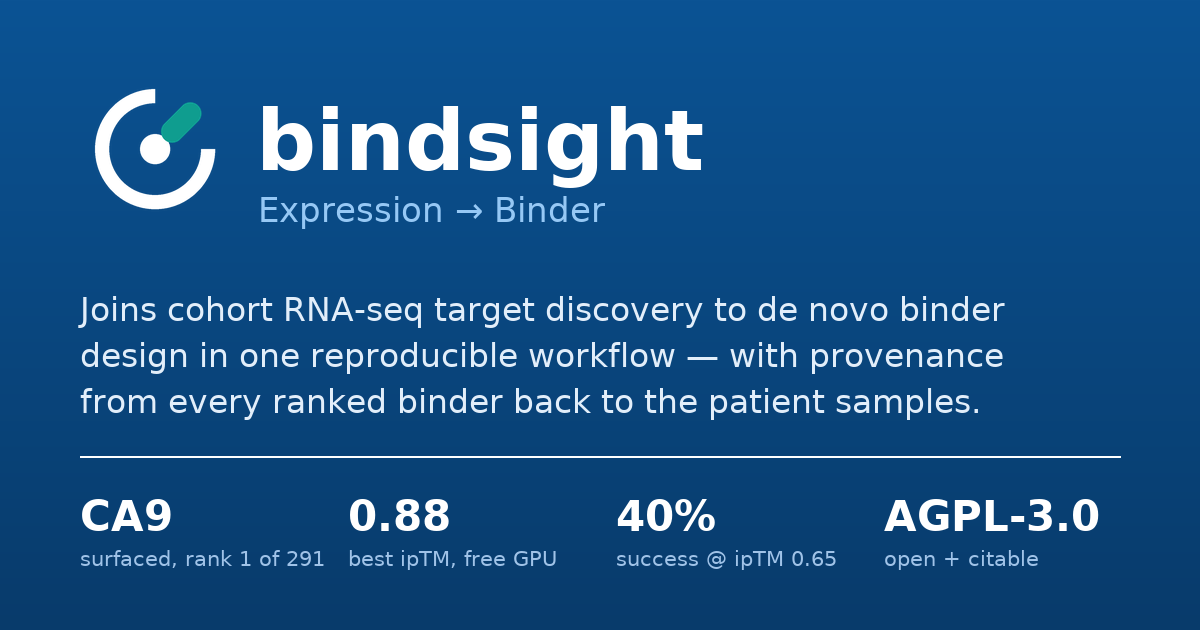
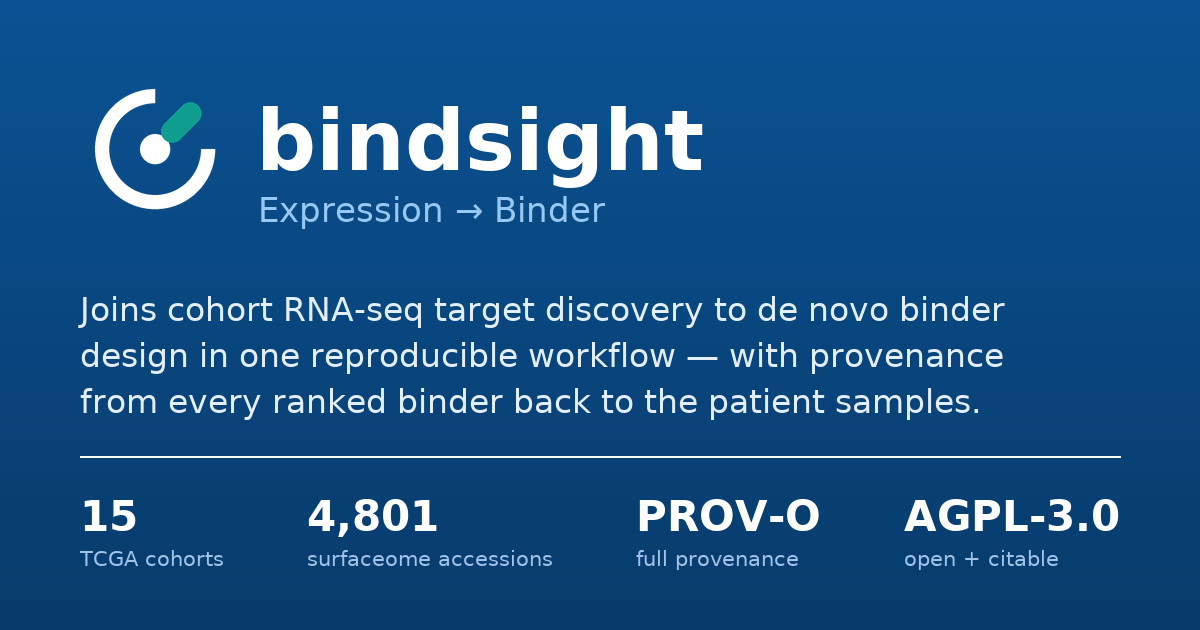
fix: remove the claims the project's own controls refuted
The scramble control withdrew `success@0.65` as a measure of design quality, but
four surfaces still told readers the opposite, and one of them could not carry a
caveat at all.

**The social card.** `docs/assets/og-image.png` is served as `og:image` on every
page of the documentation site, so it is what appears in every link preview
anywhere the project is shared. It carried "40% — success @ ipTM 0.65" as one of
four headline facts, and an image has nowhere to put the withdrawal. Its four
tiles now state the instrument's scope — 15 cohorts, 4,801 surfaceome
accessions, PROV-O, AGPL-3.0 — read from `benchmarks/study/results.json` rather
than typed, so a re-scored study cannot leave the card behind. The tiles are
also laid out from measured text widths: the old fixed 268 px pitch fitted the
one-word labels and silently overlapped as soon as a label said what its number
meant, so the renderer now refuses to emit a card whose columns would collide.

**The glossary** told readers Boltz-2 judges "whether a design would actually
bind" and that ipTM "0.65 and up is promising" — the two propositions the
control refuted. Both now say what the confidence is and what the paired control
found. **`docs/use-cases.md`** promised "Ranked binders with iPTM > 0.65" as the
pipeline's deliverable; it now promises ranked candidates carrying their
confidence, with the control stated beside it.

**Both manuscripts** opened by claiming "structurally-validated" binder
[…]

diff --git a/scripts/make_og_image.py b/scripts/make_og_image.py
@@ -54,6 +54,36 @@ def _background() -> Image.Image:
     return img
 
 
+def _facts() -> list[tuple[str, str]]:
+    """Four tiles describing the tool, read from the committed study.
+
+    This card is served as ``og:image`` on every page of the documentation site,
+    so it is what appears whenever anyone shares a link. It used to carry
+    "40% — success @ ipTM 0.65", which the project's own scramble control
+    withdrew as a measure of design quality; an image cannot carry the
+    withdrawal beside it, so the figure travelled alone wherever the link went.
+
+    Nothing here is a performance claim. Each value states the scope of the
+    instrument, and each is read from ``benchmarks/study/results.json`` rather
+    than typed, so a re-scored study cannot leave the card behind.
+    """
+    import json
+
+    root = Path(__file__).resolve().parents[1]
+    summary = json.loads(
+        (root / "benchmarks" / "study" / "results.json").read_text(encoding="utf-8")
+    )
+    cohorts = summary["specificity_null"]["n_cohorts"]
+    surfaceome = summary["surfaceome_size"]
+
+    return [
+        (f"{cohorts}", "TCGA cohorts"),
+        (f"{surfaceome:,}", "surfaceome accessions"),
+        ("PROV-O", "full provenance"),
+        ("AGPL-3.0", "open + citable"),
+    ]
+
+
 def _mark(size: int) -> Image.Image:
     """Render the bindsight mark: open antigen ring with a docked binder."""
     scale = 4
@@ -107,16 +137,29 @@ def main() -> int:
 
     draw.line([(80, 456), (W - 80, 456)], fill=(255, 255, 255, 60), width=2)
 
-    facts = [
-        ("CA9", "surfaced, rank 1 of 291"),
-        ("0.88", "best ipTM, free GPU"),
-        ("40%", "success @ ipTM 0.65"),
-        ("AGPL-3.0", "open + citable"),
+    facts = _facts()
+    # Lay the tiles out from their measured widths rather than on a fixed
+    # pitch. At 268 px the previous spacing fit the old one-word labels and
+    # silently overlapped as soon as a label described what the number meant.
+    value_font = _font(42, bold=True)
+    label_font = _font(21)
+    widths = [
+        max(draw.textlength(value, font=value_font), draw.textlength(label, font=label_font))
+        for value, label in facts
     ]
-    for i, (value, label) in enumerate(facts):
-        x = 80 + i * 268
-        draw.text((x, 492), value, font=_font(42, bold=True), fill=WHITE)
-        draw.text((x, 546), label, font=_font(21), fill=(160, 195, 232))
+    available = (W - 160) - sum(widths)
+    gap = available / (len(facts) - 1) if len(facts) > 1 else 0.0
+    if gap < 24:  # pragma: no cover - a guard against silently overlapping again
+        raise SystemExit(
+            f"tiles do not fit: they need {sum(widths):.0f} px of {W - 160} px, "
+            f"leaving {gap:.0f} px between columns. Shorten a label."
+        )
+
+    x = 80.0
+    for (value, label), width in zip(facts, widths, strict=True):
+        draw.text((x, 492), value, font=value_font, fill=WHITE)
+        draw.text((x, 546), label, font=label_font, fill=(160, 195, 232))
+        x += width + gap
 
     OUT.parent.mkdir(parents=True, exist_ok=True)
     img.save(OUT, "PNG", optimize=True)

diff --git a/tests/test_docs_claims.py b/tests/test_docs_claims.py
@@ -1503,3 +1503,48 @@ def test_the_prose_sweep_excludes_untracked_build_products() -> None:
     for path in PROSE_FILES:
         rel = path.relative_to(ROOT).as_posix()
         assert rel in tracked, f"{rel} is swept as public prose but git does not track it"
+
+
+def test_no_generated_image_bakes_in_a_withdrawn_figure() -> None:
+    """A figure rendered into a raster carries no caveat wherever it travels.
+
+    ``docs/assets/og-image.png`` is served as ``og:image`` on every page of the
+    documentation site, so it is what appears in every Slack unfurl, every
+    tweet, every link preview. It shipped "40% -- success @ ipTM 0.65" as one of
+    four headline facts while the scramble control had withdrawn that rate as a
+    measure of design quality, and no text could travel beside it to say so.
+
+    The prose guards cannot see this: they read Markdown. This one reads the
+    generator, which is where the strings actually live.
+    """
+    source = _read("scripts/make_og_image.py")
+
+    # The explanatory docstring is allowed to name what it removed; the tile
+    # data is not. Check the values the renderer actually draws.
+    tiles = re.search(r"def _facts\(\)(.*?)\n\ndef ", source, re.S)
+    assert tiles is not None, "make_og_image.py no longer defines _facts()"
+    body = tiles.group(1)
+    returned = body[body.index("return [") :] if "return [" in body else body
+
+    offenders = [m.group(0) for m in WITHDRAWN_BINDER_FIGURES.finditer(returned)]
+    assert not offenders, (
+        f"the social card renders withdrawn figures {offenders}; an image cannot "
+        "carry the withdrawal notice beside it"
+    )
+
+    for banned in ("success @", "success@", "ipTM 0.65", "iptm 0.65"):
+        assert banned not in returned, (
+            f"the social card renders {banned!r}, a metric this project withdrew "
+            "as a measure of design quality"
+        )
+
+
+def test_the_social_card_reads_its_numbers_from_the_artifacts() -> None:
+    """Typed numbers on a shared image are numbers that go stale invisibly."""
+    source = _read("scripts/make_og_image.py")
+    facts = source[source.index("def _facts()") :]
+
+    assert "results.json" in facts, (
+        "the social card should read its figures from the committed study rather "
+        "than carry literals that a re-scored run leaves behind"
+    )

diff --git a/paper/biorxiv/manuscript.tex b/paper/biorxiv/manuscript.tex
@@ -51,10 +51,17 @@ assumes the user has already chosen the target. Bridging the two —
 and here is a designed binder candidate ranked by predicted affinity''} —
 is currently an ad-hoc, project-specific exercise. We present
 \textbf{\texttt{bindsight}}, an open-source command-line tool and web
-application that ingests RNA-seq counts and outputs ranked, structurally-
-validated \textit{de novo} protein-binder candidates with a complete
+application that ingests RNA-seq counts and outputs ranked,
+structure-scored \textit{de novo} protein-binder candidates with a complete
 PROV-O~/~RO-Crate audit trail back to the patient cohort the targets came
-from. Existing open binder-design workflows begin at a chosen target, and
+from. We write \emph{structure-scored} rather than \emph{validated}
+advisedly: a paired control distributed with the tool folds each design beside
+a shuffle of its own sequence, and on the committed ERBB2 run the shuffles
+cleared the customary ipTM 0.65 threshold more often than the designs
+(50\% against 30\%; paired difference $-0.043$, 95\% CI $-0.142$ to
+$+0.054$). The interface confidences are a triage order for wet-lab work, not
+evidence of binding; the contribution claimed here is the reproducible bridge
+and its provenance. Existing open binder-design workflows begin at a chosen target, and
 existing expression- or surfaceome-based target-discovery workflows end at a
 ranked gene list; to our knowledge \texttt{bindsight} is the first open-source
 tool to run both halves end-to-end and to carry machine-readable provenance

diff --git a/bindsight/report/theme.py b/bindsight/report/theme.py
@@ -131,13 +131,20 @@ GLOSSARY: tuple[tuple[str, str], ...] = (
     (
         "Boltz-2",
         "An AI model that predicts the 3-D structure of the binder and target locked "
-        "together, so bindsight can judge whether a design would actually bind before "
-        "anyone runs a wet-lab experiment.",
+        "together, and reports how confident it is in that predicted interface. "
+        "Confidence is not a binding measurement: bindsight's own paired control "
+        "folded each design beside a shuffle of its own sequence, and the shuffles "
+        "scored as well. Treat these numbers as a filter to triage wet-lab work, "
+        "never as evidence that a design binds.",
     ),
     (
         "ipTM",
-        "A 0–1 score of how confident the structure model is that two proteins really "
-        "bind at their interface. Higher is better; roughly 0.65 and up is promising.",
+        "A 0–1 score of how confident the structure model is in the predicted "
+        "interface between two proteins. 0.65 is the threshold the de novo design "
+        "literature commonly uses, and bindsight reports against it for "
+        "comparability — but its own scramble control could not separate real "
+        "designs from shuffles of the same composition at that cutoff, so a value "
+        "above 0.65 is not on its own evidence of a binder. See the calibration.",
     ),
     (
         "PAE (interaction)",

diff --git a/docs/what-is-bindsight.md b/docs/what-is-bindsight.md
@@ -178,8 +178,37 @@ cohort's definition refers to the antigen being sought. Recall at rank 20 is 1 o
 simply not significantly over-expressed in an unstratified bulk contrast, which
 is a limit of the signal rather than of the ranking, and the study says so.
 Reproducible artifacts are in `benchmarks/study/`.
-benchmark is GPU-only; a runnable, CPU-tested harness + protocol ship in
-`benchmarks/designer_benchmark/`.
+
+The discovery half also carries two null models, and they point in opposite
+directions. Against decoys matched on abundance and dispersion, no antigen in
+the panel is distinguishable once the panel is corrected for its own size — a
+negative result, and the study reports it as one. But the ranking *is*
+indication-specific: known antigens sit at mean standing 0.765 in the cancer
+they are actually used in, against 0.417 in cancers that are not theirs, a
+within-antigen difference of **0.348** (95% CI 0.188–0.513) with an exact
+permutation p at the design's floor of 3.97e-04. That is the strongest claim
+this project makes, and it is about the ordering, not about any single hit.
+
+### Validation (the design half — and what it does not show)
+
+The design half runs end-to-end on a free GPU and produces real Boltz-2
+structures. What it does **not** establish is that those designs bind.
+
+A paired control folded each design beside a shuffle of its own sequence —
+same length, same amino-acid composition, only the order destroyed. Under a
+seeded validator averaging five diffusion draws, the shuffles cleared the 0.65
+confidence bar **more** often than the designs: 50% against 30%, a paired
+difference of −0.043 (95% CI −0.142 to +0.054), with 9 of 20 designs beating
+their own shuffle where 10 is chance. `success@0.65` is therefore withdrawn as a
+measure of design quality, and this page will not quote it as one. The full
+control, including the predictions written down before the data arrived, is in
+[`benchmarks/calibration/`](https://github.com/mikhaeelatefrizk/bindsight/blob/main/benchmarks/calibration/README.md).
+
+The three-way designer benchmark that would compare RFdiffusion+ProteinMPNN
+against BindCraft and BoltzGen is GPU-only and not yet run: both alternatives
+need 24–32 GB against anything larger than a small domain, and no shipped
+backend builds an environment where they run. A runnable, CPU-tested harness and
+protocol ship in `benchmarks/designer_benchmark/`.
 
 ### v1.0
 

diff --git a/benchmarks/calibration/README.md b/benchmarks/calibration/README.md
@@ -82,6 +82,30 @@ controls the same claim would take. How much larger depends on how correlated
 shuffles of one sequence turn out to be, which this run will show and nothing
 here should guess.
 
+## The result
+
+Stated before the chronology, because the sections below move through three
+readings in the order they were taken, and a reader who stops early would leave
+with a number this document supersedes.
+
+**Under the final protocol — seeded, five diffusion draws per fold, a pinned
+`boltz==2.0.3` the run recorded for itself — the shuffles clear the 0.65 bar
+more often than the designs do: 50% against 30%.** The paired difference is
+**-0.043** (95% CI -0.142 to +0.054), with 9 of 20 designs beating their own
+shuffle where 10 is chance, and an exact sign-flip p of 0.40.
+
+`success@0.65` is therefore withdrawn as a measure of design quality. The ipTM
+values are real Boltz-2 outputs; what does not follow from them is that the rate
+measures the designs.
+
+Two earlier readings appear below and neither is current: the first paired run
+("the same rate, 40% and 40%" — unseeded, a single diffusion draw), and the
+headline that preceded it (a protocol that redesigned the target chain as well
+as the binder). They are kept because how the answer moved, and what moved it,
+is itself the evidence: the first run's apparent tie was an artifact of reading
+one draw from a stochastic model whose per-draw noise is 0.139 — more than three
+times the effect being measured.
+
 ## What happened: the first row of the table
 
 The first outcome, the one that invalidates the metric. Full numbers in

diff --git a/docs/glossary.md b/docs/glossary.md
@@ -42,10 +42,10 @@ defined here.
 : Two AI models used together: RFdiffusion invents a plausible 3-D shape for a binder against the target, and ProteinMPNN chooses an amino-acid sequence that would fold into that shape.
 
 **Boltz-2**
-: An AI model that predicts the 3-D structure of the binder and target locked together, so bindsight can judge whether a design would actually bind before anyone runs a wet-lab experiment.
+: An AI model that predicts the 3-D structure of the binder and target locked together, and reports how confident it is in that predicted interface. Confidence is not a binding measurement: bindsight's own paired control folded each design beside a shuffle of its own sequence, and the shuffles scored as well. Treat these numbers as a filter to triage wet-lab work, never as evidence that a design binds.
 
 **ipTM**
-: A 0–1 score of how confident the structure model is that two proteins really bind at their interface. Higher is better; roughly 0.65 and up is promising.
+: A 0–1 score of how confident the structure model is in the predicted interface between two proteins. 0.65 is the threshold the de novo design literature commonly uses, and bindsight reports against it for comparability — but its own scramble control could not separate real designs from shuffles of the same composition at that cutoff, so a value above 0.65 is not on its own evidence of a binder. See the calibration.
 
 **PAE (interaction)**
 : Predicted Aligned Error at the binding interface, in ångströms — how uncertain the model is about the contact. Lower means a more trustworthy predicted grip.

diff --git a/paper/paper.md b/paper/paper.md
@@ -39,9 +39,19 @@ reproducible across labs.
 
 `bindsight` closes this gap. It is an open-source command-line tool
 and web application that takes RNA-seq counts as input and produces ranked,
-structurally-validated *de novo* protein-binder candidates as output, with a
+structure-scored *de novo* protein-binder candidates as output, with a
 complete `PROV-O` JSON-LD [@PROVO] / RO-Crate [@SoilandReyes2022] audit trail
-back to the patient cohort the targets came from. Open binder-design workflows
+back to the patient cohort the targets came from.
+
+"Structure-scored" is deliberate, and narrower than "validated". Each candidate
+carries a Boltz-2 interface confidence, and a paired control shipped with the
+tool folds every design beside a shuffle of its own sequence — same length, same
+composition, order destroyed. On the committed ERBB2 run the shuffles cleared
+the customary ipTM 0.65 bar more often than the designs (50% against 30%; paired
+difference −0.043, 95% CI −0.142 to +0.054). The confidence numbers are
+therefore a triage order for wet-lab work, not evidence of binding, and
+`bindsight` reports them as such. The contribution claimed here is the
+reproducible bridge and its provenance, not a demonstration of binder efficacy. Open binder-design workflows
 (BindCraft [@Pacesa2025], BinderFlow, `dl_binder_design` [@Bennett2023],
 nf-proteindesign) all begin at a target the user has already chosen, and
 expression- or surfaceome-based target-discovery workflows end at a ranked gene

diff --git a/docs/use-cases.md b/docs/use-cases.md
@@ -41,8 +41,17 @@ bindsight export   runs/cohort_v01 --format ro-crate --out cohort_v01.crate.zip
 **Wall time:** ~30 min CPU + ~5–10 GPU-hours on Modal A100 (~$25–40), or
 several hours of free Colab.
 
-**Output:** Ranked binders with iPTM > 0.65 against the top-5 surface antigens
-in your cohort, every one traceable back to the patients it came from.
+**Output:** Ranked binder candidates against the top-5 surface antigens in your
+cohort, each carrying its Boltz-2 interface confidence and every one traceable
+back to the patients it came from.
+
+!!! warning "What the confidence does and does not tell you"
+    bindsight reports ipTM against the literature's 0.65 threshold so its runs
+    are comparable with published work. It does **not** claim that clearing 0.65
+    means a design binds: a paired control folding each design beside a shuffle
+    of its own sequence found the shuffles cleared it just as often. The ranking
+    is a triage order for wet-lab work, not a prediction of binding. See
+    [the calibration](https://github.com/mikhaeelatefrizk/bindsight/blob/main/benchmarks/calibration/README.md).
 
 ---
 
